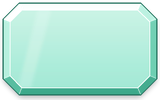
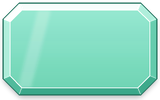
Give the buttons candy colours with a deeper foot so they look lively on any background, and keep white jelly on the violet button.

diff --git a/art/pd_ui_cutglass.py b/art/pd_ui_cutglass.py
@@ -47,7 +47,7 @@ def put(im, src, m):
     im.alpha_composite(Image.composite(src, Image.new("RGBA", im.size, CLEAR), m))
 
 
-def cut(w, h, c, tint, deep, a_top=232, a_bot=214, bevel=5.0, shadow=True, inset=False, dark=False, sheen=True, face=None):
+def cut(w, h, c, tint, deep, a_top=232, a_bot=214, bevel=5.0, shadow=True, inset=False, dark=False, sheen=True, face=None, wash=None):
     """One cut-glass piece. c = corner cut, bevel = facet width (image pixels)."""
     W, Hh = w * SS, h * SS
     im = Image.new("RGBA", (W, Hh), CLEAR)
@@ -65,6 +65,8 @@ def cut(w, h, c, tint, deep, a_top=232, a_bot=214, bevel=5.0, shadow=True, inset
     white = H("#ffffff")
     top = mix(tint, white, 0.12 if dark else 0.62)[:3] + (a_top,)
     bot = (deep if dark else mix(tint, white, 0.25))[:3] + (a_bot,)
+    if wash is not None:  # a candy-coloured piece (buttons): little white in the body, a deeper foot
+        top, bot = mix(tint, white, wash)[:3] + (a_top,), mix(tint, deep, 0.22)[:3] + (a_bot,)
     put(im, vgrad(im.size, top, bot, box[1], box[3]), body)
     if face:  # a milkier reading face inside the bevel (panels and cards)
         put(im, vgrad(im.size, face[0], face[1], ibox[1], ibox[3]), mask(im.size, inner))
@@ -105,7 +107,7 @@ FACE = (H("#fbf9ff", 228), H("#e9e1ff", 216))
 BTN = {"mint": ("#7fe6c6", "#1f8f72"), "pink": ("#ff9fbd", "#c2416f"), "lilac": ("#bfa8ff", "#6a4fc4"),
        "butter": ("#ffd66b", "#b9791c"), "sky": ("#8fd2ff", "#2f78c4"), "off": ("#cfc8dc", "#7f7592")}
 for n, (t, dp) in BTN.items():
-    save(n, cut(160, 100, 16, H(t), H(dp), a_top=252, a_bot=246, bevel=7), (42, 40, 118, 52))  # buttons are nearly solid: at 226 they went dull tan over a dark cave
+    save(n, cut(160, 100, 16, H(t), H(dp), a_top=252, a_bot=246, bevel=7, wash=0.22), (42, 40, 118, 52))  # buttons are nearly solid and candy-coloured: pale glass went dull tan over a dark cave
 save("pill", cut(176, 76, 14, H("#e6dcff"), H("#6a4fc4"), a_top=206, a_bot=186, bevel=4.5), (40, 31, 136, 37))
 for n, (t, dp) in {"pillButter": ("#ffe39a", "#b9791c"), "pillLilac": ("#d6c8ff", "#6a4fc4"), "pillMint": ("#b4f0dc", "#1f8f72"), "pillPink": ("#ffc8d8", "#c2416f")}.items():
     save(n, cut(176, 80, 15, H(t), H(dp), a_top=210, a_bot=190, bevel=4.5), (40, 33, 136, 41))
